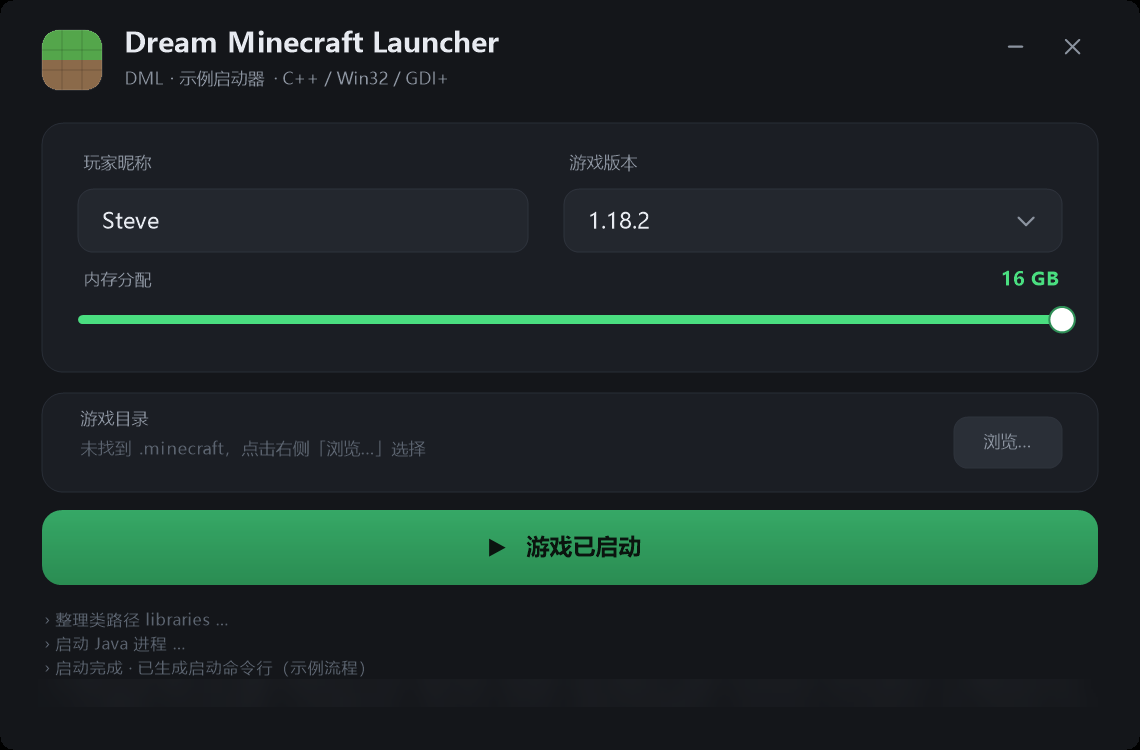
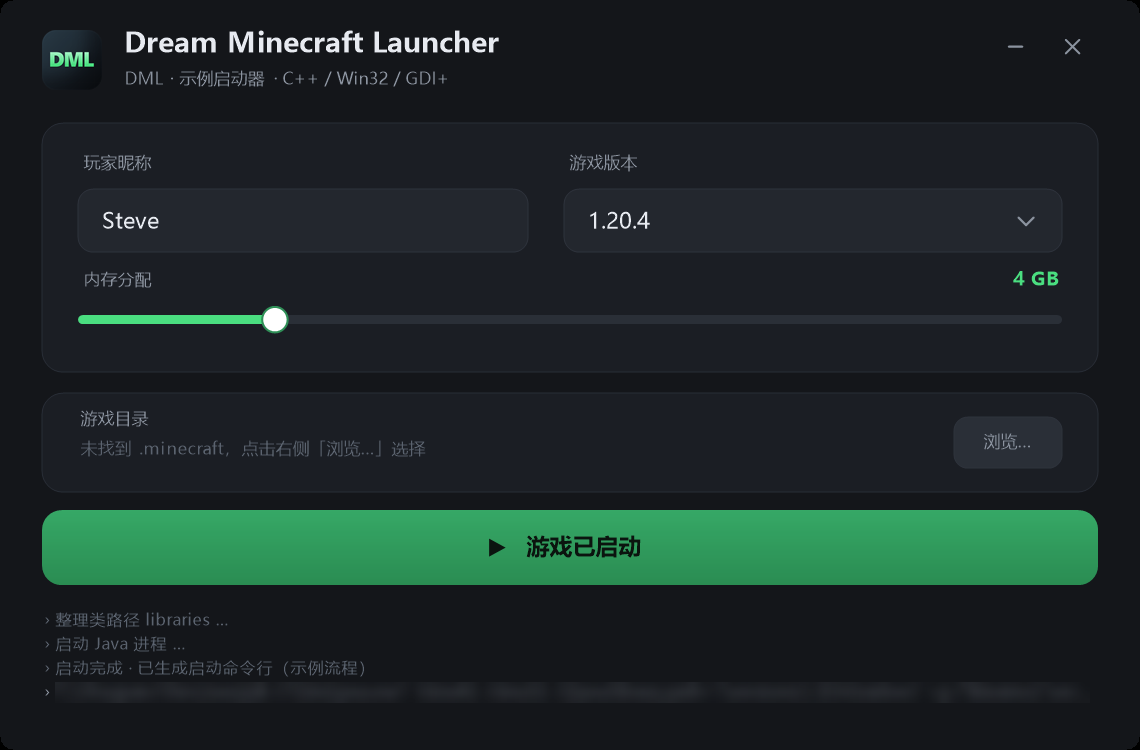
feat(brand): 图标与页眉标志编入 exe
- res/app.rc + src/resource.h: dml.ico 注册为 RT_GROUP_ICON(101)，
  dml-logo-256.png 原样嵌为 RT_RCDATA(201)
- src/main.cpp: LoadImageW 取窗口/任务栏图标并通过 WM_SETICON 同步大小图标；
  新增 LoadLogoResource（CreateStreamOnHGlobal -> GDI+ Image），
  DrawLogo 优先贴内嵌标志，资源缺失时回退手绘草方块
- build.bat: 增加 rc.exe / windres 资源编译步骤；MinGW 装在含空格路径时
  自动建 build\tc 目录联接，规避 windres 内部调用 gcc 不加引号的问题；
  并把 mingw\bin 加进 PATH，避免 cc1.exe 报 STATUS_DLL_NOT_FOUND
- CMakeLists.txt: 启用 RC 语言并加入 res/app.rc
- README: 补充资源嵌入说明、两种命令行编译方式的 rc 步骤与 windres 踩坑记录
- docs/*.png: 按当前 760x500 布局重拍四张预览（Java 路径与启动命令行已打码）

Changed region(s): [[0.2149, 0.3987, 0.9518, 0.46], [0.0307, 0.0307, 0.0921, 0.1227], [0.5219, 0.276, 0.5833, 0.3067]]

diff --git a/src/main.cpp b/src/main.cpp
@@ -21,6 +21,8 @@
 #include <shlobj.h>
 #include <gdiplus.h>
 
+#include "resource.h"   // IDI_APPICON / IDR_LOGO
+
 #include <stdlib.h>
 #include <string>
 #include <vector>
@@ -468,7 +470,63 @@ static void DrawWindowButtons(Graphics& gr, const Layout& L) {
     }
 }
 
+// ---------------------------------------------------------------------------
+//  品牌标志：优先使用内嵌的 dml-logo-256.png（RT_RCDATA），失败则回退手绘草方块
+// ---------------------------------------------------------------------------
+static Image*   g_logoImg    = nullptr;
+static IStream* g_logoStream = nullptr;
+
+static bool LoadLogoResource(HINSTANCE hInst) {
+    HRSRC hr = FindResourceW(hInst, MAKEINTRESOURCEW(IDR_LOGO), RT_RCDATA);
+    if (!hr) return false;
+    DWORD size = SizeofResource(hInst, hr);
+    if (size == 0) return false;
+    HGLOBAL hres = LoadResource(hInst, hr);
+    if (!hres) return false;
+    void* src = LockResource(hres);
+    if (!src) return false;
+
+    // GDI+ 需要一个持续存在的 IStream，因此把资源复制到堆内存再交给它托管
+    HGLOBAL mem = GlobalAlloc(GMEM_MOVEABLE, size);
+    if (!mem) return false;
+    void* dst = GlobalLock(mem);
+    if (!dst) { GlobalFree(mem); return false; }
+    memcpy(dst, src, size);
+    GlobalUnlock(mem);
+
+    if (CreateStreamOnHGlobal(mem, TRUE, &g_logoStream) != S_OK) {
+        GlobalFree(mem);
+        return false;
+    }
+    g_logoImg = Image::FromStream(g_logoStream, FALSE);
+    if (!g_logoImg || g_logoImg->GetLastStatus() != Ok) {
+        delete g_logoImg;
+        g_logoImg = nullptr;
+        g_logoStream->Release();
+        g_logoStream = nullptr;
+        return false;
+    }
+    return true;
+}
+
+static void FreeLogoResource() {
+    delete g_logoImg;
+    g_logoImg = nullptr;
+    if (g_logoStream) { g_logoStream->Release(); g_logoStream = nullptr; }
+}
+
 static void DrawLogo(Graphics& gr, const RectF& r) {
+    if (g_logoImg) {
+        // 标志本身已含圆角与透明边，直接高质量缩放贴入即可
+        gr.SetInterpolationMode(InterpolationModeHighQualityBicubic);
+        gr.SetPixelOffsetMode(PixelOffsetModeHighQuality);
+        gr.DrawImage(g_logoImg, r);
+        gr.SetInterpolationMode(InterpolationModeDefault);
+        gr.SetPixelOffsetMode(PixelOffsetModeHalf);
+        return;
+    }
+
+    // ---- 回退：手绘草方块 ----
     GraphicsPath clip;
     AddRoundRect(clip, r, SR(11));
     gr.SetClip(&clip);
@@ -943,6 +1001,10 @@ int WINAPI WinMain(HINSTANCE hInst, HINSTANCE, LPSTR, int) {
     InitFonts();
     OleInitialize(nullptr);
 
+    // ---- 品牌资源（图标 + 页眉标志）----
+    if (!LoadLogoResource(hInst))
+        OutputDebugStringW(L"[DML] 内嵌标志加载失败，回退手绘草方块\n");
+
     // ---- 配置 & 环境 ----
     std::wstring savedVer;
     LoadConfig(savedVer);
@@ -960,6 +1022,16 @@ int WINAPI WinMain(HINSTANCE hInst, HINSTANCE, LPSTR, int) {
     g_app.javaPath = DetectJava();
 
     // ---- 建窗 ----
+    // 图标取自内嵌的 dml.ico（多尺寸），按系统要求的大/小图标尺寸各取一张
+    HICON hIconBig = (HICON)LoadImageW(hInst, MAKEINTRESOURCEW(IDI_APPICON), IMAGE_ICON,
+                                       GetSystemMetrics(SM_CXICON), GetSystemMetrics(SM_CYICON),
+                                       LR_DEFAULTCOLOR);
+    HICON hIconSm  = (HICON)LoadImageW(hInst, MAKEINTRESOURCEW(IDI_APPICON), IMAGE_ICON,
+                                       GetSystemMetrics(SM_CXSMICON), GetSystemMetrics(SM_CYSMICON),
+                                       LR_DEFAULTCOLOR);
+    if (!hIconBig) hIconBig = LoadIconW(nullptr, IDI_APPLICATION);
+    if (!hIconSm)  hIconSm  = hIconBig;
+
     WNDCLASSEXW wc{};
     wc.cbSize        = sizeof(wc);
     wc.style         = CS_HREDRAW | CS_VREDRAW;
@@ -968,8 +1040,8 @@ int WINAPI WinMain(HINSTANCE hInst, HINSTANCE, LPSTR, int) {
     wc.hCursor       = LoadCursorW(nullptr, IDC_ARROW);
     wc.hbrBackground = nullptr;
     wc.lpszClassName = L"DreamMinecraftLauncherWnd";
-    wc.hIcon         = LoadIconW(nullptr, IDI_APPLICATION);
-    wc.hIconSm       = LoadIconW(nullptr, IDI_APPLICATION);
+    wc.hIcon         = hIconBig;
+    wc.hIconSm       = hIconSm;
     RegisterClassExW(&wc);
 
     int w = S(WIN_W), h = S(WIN_H);
@@ -981,6 +1053,10 @@ int WINAPI WinMain(HINSTANCE hInst, HINSTANCE, LPSTR, int) {
                                 WS_POPUP | WS_SYSMENU | WS_MINIMIZEBOX,
                                 x, y, w, h, nullptr, nullptr, hInst, nullptr);
     if (!hwnd) return 1;
+
+    // 显式设置窗口图标，确保任务栏与 Alt+Tab 也用的是品牌图标
+    SendMessageW(hwnd, WM_SETICON, ICON_BIG,   (LPARAM)hIconBig);
+    SendMessageW(hwnd, WM_SETICON, ICON_SMALL, (LPARAM)hIconSm);
 
     HRGN rgn = CreateRoundRectRgn(0, 0, w + 1, h + 1, S(18), S(18));
     SetWindowRgn(hwnd, rgn, TRUE);
@@ -1008,6 +1084,9 @@ int WINAPI WinMain(HINSTANCE hInst, HINSTANCE, LPSTR, int) {
     }
 
     FreeFonts();
+    FreeLogoResource();
+    if (hIconBig && hIconBig != hIconSm) DestroyIcon(hIconBig);
+    if (hIconSm) DestroyIcon(hIconSm);
     GdiplusShutdown(gpToken);
     OleUninitialize();
     return 0;

diff --git a/src/resource.h b/src/resource.h
@@ -1,0 +1,10 @@
+// ============================================================================
+//  resource.h —— 资源 ID 定义（app.rc 与 main.cpp 共用）
+// ============================================================================
+#ifndef DML_RESOURCE_H
+#define DML_RESOURCE_H
+
+#define IDI_APPICON   101   // 应用图标（RT_GROUP_ICON，assets/logo/dml.ico）
+#define IDR_LOGO      201   // 页眉标志（RCDATA，assets/logo/dml-logo-256.png）
+
+#endif // DML_RESOURCE_H

diff --git a/README.md b/README.md
@@ -59,14 +59,22 @@
 如需换配色，只改 `generate.py` 顶部的 `GREEN` / `GREEN_LO` / `BG_A` / `BG_B` 四个常量，
 再执行 `python assets/logo/generate.py`。
 
+**图标已编入 exe**：`res/app.rc` 把 `dml.ico` 注册为 `RT_GROUP_ICON`（ID 101）、把
+`dml-logo-256.png` 原样嵌为 `RT_RCDATA`（ID 201），两者 ID 定义在 `src/resource.h`。
+运行时 `LoadImageW` 取窗口/任务栏图标，`LoadLogoResource()` 经 `CreateStreamOnHGlobal`
+把 PNG 交给 GDI+ 解码并画到页眉；资源缺失时自动回退到旧的「手绘草方块」。
+
 ## 目录结构
 
 ```
 MCLaucher/
-├─ src/main.cpp        # 全部源码（约 900 行，单文件）
+├─ src/main.cpp        # 全部源码（约 1050 行，单文件）
+├─ src/resource.h      # 资源 ID（app.rc 与 main.cpp 共用）
+├─ res/app.rc          # 资源脚本：图标 + 页眉标志
+├─ assets/logo/        # 标志源文件与生成脚本
 ├─ build.bat           # 一键编译：自动挑选 MSVC / MinGW / Zig
 ├─ CMakeLists.txt      # 可选，CMake 构建
-├─ build/DML.exe    # 编译产物
+├─ build/DML.exe       # 编译产物
 ├─ docs/               # 界面截图
 └─ README.md
 ```
@@ -80,6 +88,8 @@ build.bat
 ```
 
 脚本会依次尝试 **MSVC（VS2019/2022 含 C++ 工作负载）→ MinGW g++ → Zig**，产物在 `build\DML.exe`。
+前两者会先用 `rc.exe` / `windres` 编译 `res\app.rc`，把图标与页眉标志一并链接进 exe；
+Zig 没有资源编译器，走这条路时产物不带图标（功能不受影响，会自动回退手绘标志）。
 
 发布用的构建默认带 `-s`（剥离符号），避免可执行文件里嵌入本机绝对路径与调试信息；
 `build\` 目录已加入 `.gitignore`，调试符号（`.pdb`）不要随发行包一起分发。
@@ -87,18 +97,26 @@ build.bat
 若三者都不在 PATH 中，脚本还会尝试本机已缓存的 zig 工具链（具体路径见 `build.bat` 第 3 步），
 无需额外安装 Visual Studio 或 Windows SDK。
 
+> 踩坑记录：`windres` 内部调用 `gcc` 时不加引号，MinGW 装在含空格的路径（如
+> `C:\Program Files\...`）下会直接报 `preprocessing failed`。`build.bat` 里会在
+> `build\tc` 建一个目录联接（`mklink /J`）指向工具链根目录，用无空格路径调用；另外
+> `cc1.exe` 依赖 `libwinpthread-1.dll`，必须把 `<mingw>\bin` 加进 `PATH`，否则报的是
+> 无任何提示的 `exit 1`（实际退出码 `0xC0000135` = STATUS_DLL_NOT_FOUND）。
+
 ### 方式二：MSVC（开发者命令提示符）
 
 ```bat
-cl /nologo /std:c++17 /EHsc /O2 /MT /DUNICODE /D_UNICODE src\main.cpp ^
+rc /nologo /fo build\app.res res\app.rc
+cl /nologo /std:c++17 /EHsc /O2 /MT /DUNICODE /D_UNICODE src\main.cpp build\app.res ^
    /Fe:build\DML.exe /link /SUBSYSTEM:WINDOWS gdiplus.lib shell32.lib ole32.lib
 ```
 
 ### 方式三：MinGW-w64
 
 ```bat
-g++ -std=c++17 -O2 -mwindows -DUNICODE -D_UNICODE src\main.cpp -o build\DML.exe ^
-    -lgdiplus -lshell32 -lole32 -lgdi32 -luser32 -static-libgcc -static-libstdc++
+windres res\app.rc -O coff -o build\app.res.o
+g++ -std=c++17 -O2 -mwindows -DUNICODE -D_UNICODE src\main.cpp build\app.res.o ^
+    -o build\DML.exe -lgdiplus -lshell32 -lole32 -lgdi32 -luser32 -static -s
 ```
 
 ### 方式四：CMake
@@ -114,6 +132,7 @@ cmake --build out --config Release
 |---|---|
 | 无边框窗口 | `WS_POPUP` + `CreateRoundRectRgn` 圆角；顶部空白区拖动，自绘最小化/关闭按钮 |
 | 双缓冲绘制 | 内存 DC + `BitBlt`，`Graphics` 抗锯齿，窗口缩放/重绘不闪烁 |
+| 品牌资源 | 图标与页眉标志编进 exe（`res/app.rc`）；窗口、任务栏图标取自多尺寸 `dml.ico`，页眉用 GDI+ 高质量缩放绘制 PNG 标志 |
 | 自绘输入框 | 光标闪烁（`WM_CHAR` / 定时器）、退格、16 字符上限、聚焦高亮描边 |
 | 自绘下拉框 | 浮层绘制在主窗口之上、悬停高亮、滚轮翻页（>6 个版本时） |
 | 内存滑块 | 1–16 GB 拖动调节，按下即跟随鼠标并捕获输入 |
@@ -136,6 +155,8 @@ Theme           配色常量
 S() / SR()      DPI 缩放换算
 AddRoundRect    圆角矩形路径（FillRound / StrokeRound）
 DrawStr         带对齐与省略号的文字绘制
+DrawLogo        页眉标志（内嵌 PNG 优先，缺失时回退手绘草方块）
+LoadLogoResource  从 RT_RCDATA 取出 PNG → IStream → GDI+ Image
 ComputeLayout   全部控件坐标集中在此，改界面只改这一个函数
 AppState        全局状态（昵称、版本、内存、hover、下拉、启动进度）
 ScanVersions    扫描 .minecraft\versions
